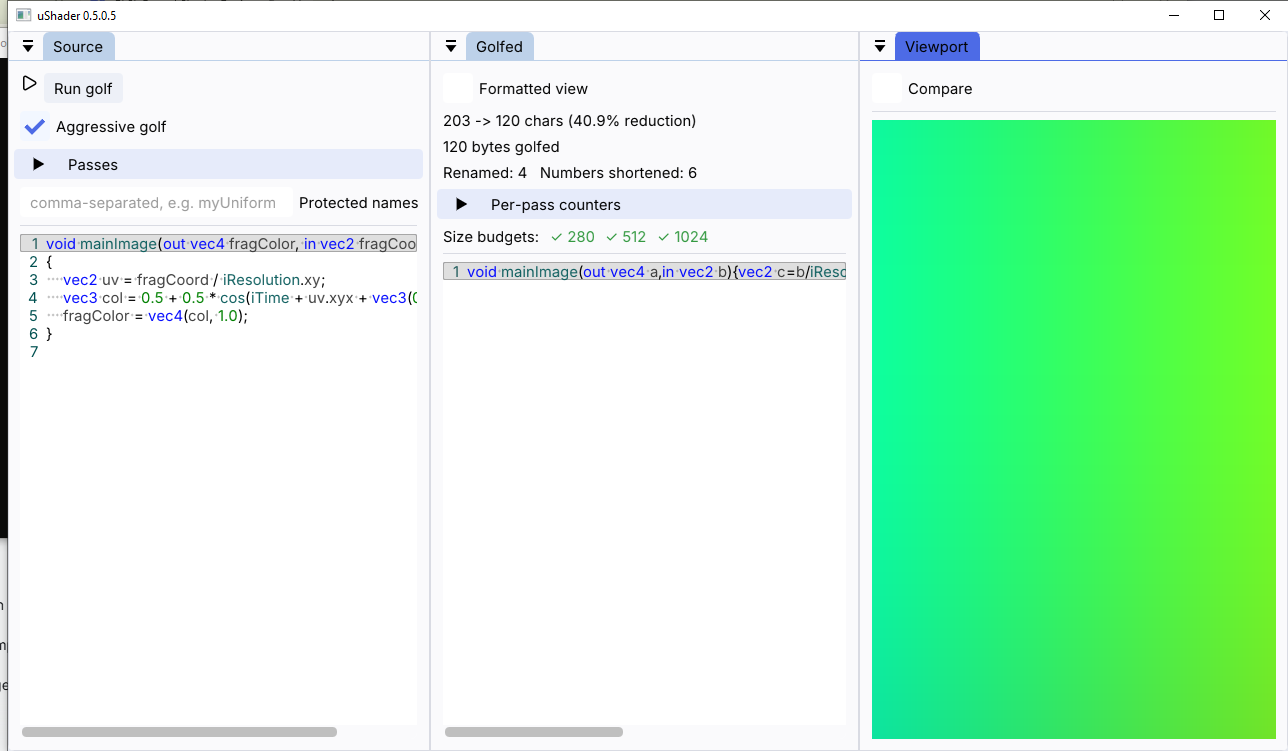
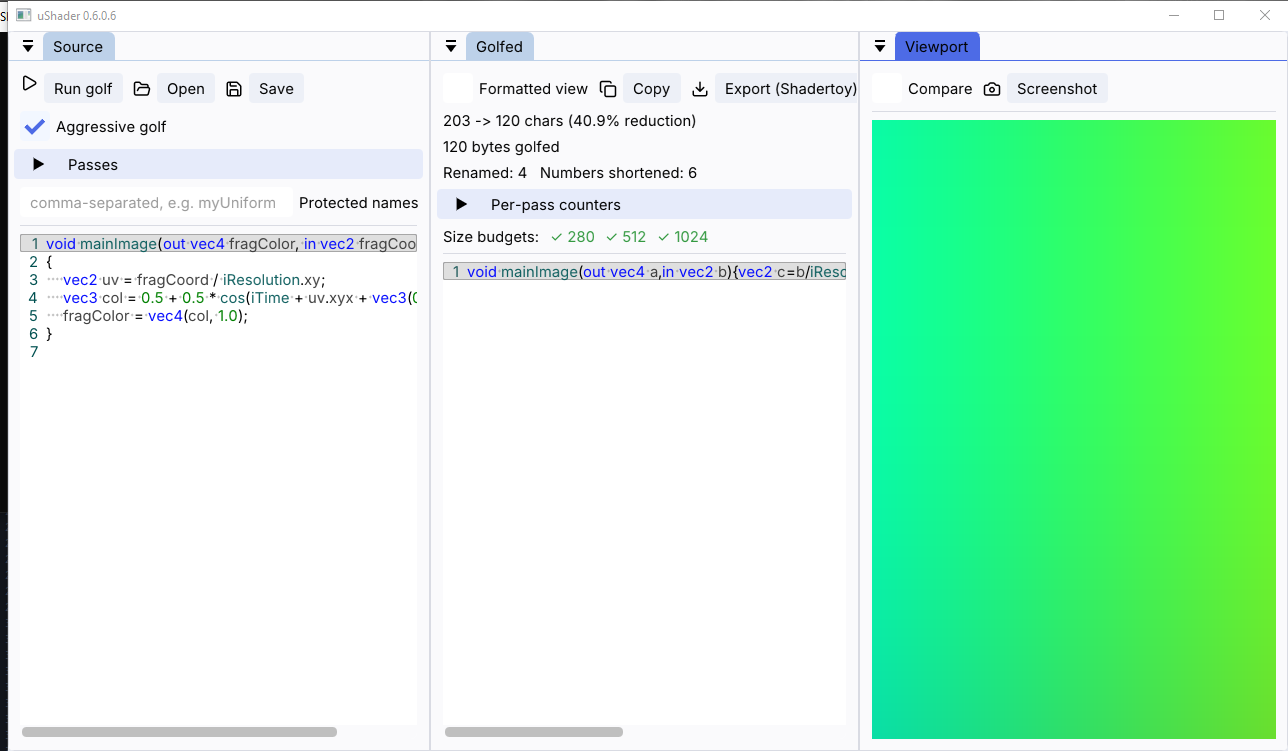
Phase 6: import, export, and capture
Add native Windows file dialogs (src/platform/file_dialog) for
opening and saving .glsl source, a Copy button that puts the golfed
output on the clipboard, a Shadertoy-format export (the golfed
mainImage body needs no extra wrapping to paste there), and a
Screenshot button that captures the golfed viewport's current frame
via glReadPixels and writes it out with stb_image_write.

diff --git a/src/main.cpp b/src/main.cpp
@@ -6,9 +6,14 @@
 
 #include <cstdio>
 #include <ctime>
+#include <fstream>
+#include <optional>
 #include <regex>
+#include <sstream>
 #include <string>
 
+#include "platform/file_dialog.h"
+#include "platform/screenshot.h"
 #include "render/default_shader.h"
 #include "render/framebuffer.h"
 #include "render/gl_functions.h"
@@ -25,6 +30,9 @@
 
 namespace
 {
+    const wchar_t kGlslFilter[] = L"GLSL shaders (*.glsl)\0*.glsl\0All files (*.*)\0*.*\0";
+    const wchar_t kPngFilter[] = L"PNG image (*.png)\0*.png\0";
+
     int parse_error_line_number(const std::string& log)
     {
         static const std::regex nvidia_pattern(R"(0\((\d+)\))");
@@ -48,6 +56,29 @@ namespace
             return "Line " + std::to_string(line) + ": ";
         }
         return std::string();
+    }
+
+    std::string read_text_file(const std::string& path)
+    {
+        std::ifstream file(path, std::ios::binary);
+        if (!file)
+        {
+            return std::string();
+        }
+        std::ostringstream buffer;
+        buffer << file.rdbuf();
+        return buffer.str();
+    }
+
+    bool write_text_file(const std::string& path, const std::string& content)
+    {
+        std::ofstream file(path, std::ios::binary);
+        if (!file)
+        {
+            return false;
+        }
+        file << content;
+        return static_cast<bool>(file);
     }
 }
 
@@ -134,6 +165,15 @@ int main(int argc, char* argv[])
     GolfPassToggles pass_toggles;
     std::string protected_names;
     UshaderGolfStats golf_stats{};
+
+    auto icon_button = [&](const char* icon, const char* label)
+    {
+        ImGui::PushFont(g_icon_font);
+        ImGui::Text("%s", icon);
+        ImGui::PopFont();
+        ImGui::SameLine(0.0f, 6.0f);
+        return ImGui::Button(label);
+    };
 
     auto run_golf_action = [&]()
     {
@@ -251,13 +291,28 @@ int main(int argc, char* argv[])
         ImGui::End();
 
         ImGui::Begin(kSourceWindowTitle);
-        ImGui::PushFont(g_icon_font);
-        ImGui::Text(ICON_PLAY);
-        ImGui::PopFont();
-        ImGui::SameLine(0.0f, 6.0f);
-        if (ImGui::Button("Run golf"))
+        if (icon_button(ICON_PLAY, "Run golf"))
         {
             run_golf_action();
+        }
+        ImGui::SameLine();
+        if (icon_button(ICON_FOLDER_OPEN, "Open"))
+        {
+            std::optional<std::string> path = show_open_file_dialog(window, kGlslFilter, L"glsl");
+            if (path.has_value())
+            {
+                source_editor.SetText(read_text_file(*path));
+                run_golf_action();
+            }
+        }
+        ImGui::SameLine();
+        if (icon_button(ICON_SAVE, "Save"))
+        {
+            std::optional<std::string> path = show_save_file_dialog(window, kGlslFilter, L"glsl", L"shader.glsl");
+            if (path.has_value())
+            {
+                write_text_file(*path, source_editor.GetText());
+            }
         }
         render_golf_controls(pass_toggles, protected_names);
         ImGui::Separator();
@@ -269,6 +324,20 @@ int main(int argc, char* argv[])
         {
             golfed_editor.SetText(formatted_view ? format_glsl(golfed_text) : golfed_text);
         }
+        ImGui::SameLine();
+        if (icon_button(ICON_COPY, "Copy"))
+        {
+            SDL_SetClipboardText(golfed_text.c_str());
+        }
+        ImGui::SameLine();
+        if (icon_button(ICON_DOWNLOAD, "Export (Shadertoy)"))
+        {
+            std::optional<std::string> path = show_save_file_dialog(window, kGlslFilter, L"glsl", L"shader.glsl");
+            if (path.has_value())
+            {
+                write_text_file(*path, golfed_text);
+            }
+        }
         render_stats_panel(golf_stats, golfed_text.size());
         ImGui::Separator();
         golfed_editor.Render("##golfed");
@@ -276,6 +345,15 @@ int main(int argc, char* argv[])
 
         ImGui::Begin(kViewportWindowTitle);
         ImGui::Checkbox("Compare", &compare_mode);
+        ImGui::SameLine();
+        if (icon_button(ICON_CAMERA, "Screenshot"))
+        {
+            std::optional<std::string> path = show_save_file_dialog(window, kPngFilter, L"png", L"screenshot.png");
+            if (path.has_value())
+            {
+                save_framebuffer_png(golfed_viewport_fb, *path);
+            }
+        }
 
         if (!compile_error.empty())
         {

diff --git a/src/platform/file_dialog.cpp b/src/platform/file_dialog.cpp
@@ -1,0 +1,78 @@
+#include "file_dialog.h"
+
+#define WIN32_LEAN_AND_MEAN
+#include <windows.h>
+
+#include <commdlg.h>
+
+#include <SDL3/SDL.h>
+#include <cwchar>
+
+namespace
+{
+    HWND native_window_handle(SDL_Window* window)
+    {
+        if (window == nullptr)
+        {
+            return nullptr;
+        }
+        SDL_PropertiesID props = SDL_GetWindowProperties(window);
+        return static_cast<HWND>(SDL_GetPointerProperty(props, SDL_PROP_WINDOW_WIN32_HWND_POINTER, nullptr));
+    }
+
+    std::string wide_to_utf8(const wchar_t* wide)
+    {
+        int size = WideCharToMultiByte(CP_UTF8, 0, wide, -1, nullptr, 0, nullptr, nullptr);
+        if (size <= 0)
+        {
+            return std::string();
+        }
+        std::string result(static_cast<size_t>(size) - 1, '\0');
+        WideCharToMultiByte(CP_UTF8, 0, wide, -1, result.data(), size, nullptr, nullptr);
+        return result;
+    }
+}
+
+std::optional<std::string> show_open_file_dialog(SDL_Window* window, const wchar_t* filter, const wchar_t* default_ext)
+{
+    wchar_t path_buffer[MAX_PATH] = L"";
+
+    OPENFILENAMEW ofn{};
+    ofn.lStructSize = sizeof(ofn);
+    ofn.hwndOwner = native_window_handle(window);
+    ofn.lpstrFilter = filter;
+    ofn.lpstrFile = path_buffer;
+    ofn.nMaxFile = MAX_PATH;
+    ofn.lpstrDefExt = default_ext;
+    ofn.Flags = OFN_FILEMUSTEXIST | OFN_PATHMUSTEXIST | OFN_NOCHANGEDIR;
+
+    if (!GetOpenFileNameW(&ofn))
+    {
+        return std::nullopt;
+    }
+    return wide_to_utf8(path_buffer);
+}
+
+std::optional<std::string> show_save_file_dialog(SDL_Window* window, const wchar_t* filter, const wchar_t* default_ext, const wchar_t* default_name)
+{
+    wchar_t path_buffer[MAX_PATH] = L"";
+    if (default_name != nullptr)
+    {
+        wcsncpy_s(path_buffer, default_name, MAX_PATH - 1);
+    }
+
+    OPENFILENAMEW ofn{};
+    ofn.lStructSize = sizeof(ofn);
+    ofn.hwndOwner = native_window_handle(window);
+    ofn.lpstrFilter = filter;
+    ofn.lpstrFile = path_buffer;
+    ofn.nMaxFile = MAX_PATH;
+    ofn.lpstrDefExt = default_ext;
+    ofn.Flags = OFN_OVERWRITEPROMPT | OFN_PATHMUSTEXIST | OFN_NOCHANGEDIR;
+
+    if (!GetSaveFileNameW(&ofn))
+    {
+        return std::nullopt;
+    }
+    return wide_to_utf8(path_buffer);
+}

diff --git a/src/platform/screenshot.cpp b/src/platform/screenshot.cpp
@@ -1,0 +1,19 @@
+#include "screenshot.h"
+
+#include <stb_image_write.h>
+#include <vector>
+
+#include "../render/framebuffer.h"
+
+bool save_framebuffer_png(const OffscreenFramebuffer& fb, const std::string& path)
+{
+    std::vector<unsigned char> pixels;
+    if (!fb.read_pixels(pixels))
+    {
+        return false;
+    }
+
+    stbi_flip_vertically_on_write(1);
+    int stride = fb.width() * 4;
+    return stbi_write_png(path.c_str(), fb.width(), fb.height(), 4, pixels.data(), stride) != 0;
+}

diff --git a/src/render/framebuffer.cpp b/src/render/framebuffer.cpp
@@ -54,6 +54,20 @@ void OffscreenFramebuffer::unbind(int window_width, int window_height) const
     glViewport(0, 0, window_width, window_height);
 }
 
+bool OffscreenFramebuffer::read_pixels(std::vector<unsigned char>& out_rgba) const
+{
+    if (fbo == 0 || current_width <= 0 || current_height <= 0)
+    {
+        return false;
+    }
+
+    out_rgba.resize(static_cast<size_t>(current_width) * static_cast<size_t>(current_height) * 4);
+    glBindFramebuffer(GL_FRAMEBUFFER, fbo);
+    glReadPixels(0, 0, current_width, current_height, GL_RGBA, GL_UNSIGNED_BYTE, out_rgba.data());
+    glBindFramebuffer(GL_FRAMEBUFFER, 0);
+    return true;
+}
+
 void OffscreenFramebuffer::destroy()
 {
     if (fbo != 0)

diff --git a/src/platform/file_dialog.h b/src/platform/file_dialog.h
@@ -1,0 +1,9 @@
+#pragma once
+
+#include <optional>
+#include <string>
+
+struct SDL_Window;
+
+std::optional<std::string> show_open_file_dialog(SDL_Window* window, const wchar_t* filter, const wchar_t* default_ext);
+std::optional<std::string> show_save_file_dialog(SDL_Window* window, const wchar_t* filter, const wchar_t* default_ext, const wchar_t* default_name);

diff --git a/src/platform/screenshot.h b/src/platform/screenshot.h
@@ -1,0 +1,7 @@
+#pragma once
+
+#include <string>
+
+class OffscreenFramebuffer;
+
+bool save_framebuffer_png(const OffscreenFramebuffer& fb, const std::string& path);

diff --git a/src/ui/icons.h b/src/ui/icons.h
@@ -7,3 +7,8 @@
 #define ICON_CIRCLE_ALERT "\xee\x81\xb7"
 #define ICON_CODE "\xee\x82\x93"
 #define ICON_IMAGE "\xee\x83\xb6"
+#define ICON_FOLDER_OPEN "\xee\x89\x87"
+#define ICON_SAVE "\xee\x85\x8d"
+#define ICON_COPY "\xee\x82\x9e"
+#define ICON_DOWNLOAD "\xee\x82\xb2"
+#define ICON_CAMERA "\xee\x81\xa4"

diff --git a/src/ui/theme.cpp b/src/ui/theme.cpp
@@ -90,10 +90,15 @@ void load_fonts(ImGuiIO& io, float base_size)
     icon_config.OversampleH = 2;
     icon_config.OversampleV = 2;
     static const ImWchar icon_ranges[] = {
+        0xe064, 0xe064,
         0xe077, 0xe077,
         0xe093, 0xe093,
+        0xe09e, 0xe09e,
+        0xe0b2, 0xe0b2,
         0xe0f6, 0xe0f6,
         0xe13c, 0xe13c,
+        0xe14d, 0xe14d,
+        0xe247, 0xe247,
         0};
     g_icon_font = io.Fonts->AddFontFromFileTTF(icon_path.c_str(), base_size, &icon_config, icon_ranges);
 }

diff --git a/src/render/framebuffer.h b/src/render/framebuffer.h
@@ -1,5 +1,7 @@
 #pragma once
 
+#include <vector>
+
 class OffscreenFramebuffer
 {
 public:
@@ -7,6 +9,7 @@ public:
     void bind() const;
     void unbind(int window_width, int window_height) const;
     void destroy();
+    bool read_pixels(std::vector<unsigned char>& out_rgba) const;
 
     unsigned int texture_id() const { return texture; }
     int width() const { return current_width; }

diff --git a/src/platform/stb_impl.cpp b/src/platform/stb_impl.cpp
@@ -1,0 +1,2 @@
+#define STB_IMAGE_WRITE_IMPLEMENTATION
+#include <stb_image_write.h>

diff --git a/CHANGELOG.md b/CHANGELOG.md
@@ -2,6 +2,22 @@
 
 All notable changes to µShader are documented in this file.
 
+## [0.7.0] - Unreleased
+
+### Added
+
+- Open/Save buttons in the Source panel using native Windows file
+  dialogs, for loading and saving `.glsl` shader source.
+- Copy button in the Golfed panel: copies the golfed output (always
+  the raw minified text, regardless of "Formatted view") to the
+  clipboard.
+- Export (Shadertoy) button: saves the golfed output to a `.glsl`
+  file — Shadertoy's format is just the `mainImage` function body, so
+  no extra wrapping is needed.
+- Screenshot button in the Viewport panel: captures the golfed
+  shader's current frame via `glReadPixels` and writes it to a PNG
+  file with `stb_image_write`.
+
 ## [0.6.0] - Unreleased
 
 ### Added

diff --git a/README.md b/README.md
@@ -10,10 +10,11 @@ viewport.
 
 ![uShader screenshot: Source, Golfed, and Viewport panels](docs/screenshot.png)
 
-**Status: early development (Phase 5 — golfing controls & stats).
-Aggressive-pass toggles, protected names, reduction stats, and
-Compare mode are all in place; file import/export is not implemented
-yet.** See `ROADMAP.md` for the full phase-by-phase plan.
+**Status: early development (Phase 6 — import/export/capture). Open
+and save `.glsl` files, copy the golfed output, export it in
+Shadertoy format, and capture the viewport to PNG — branding and
+packaging are not implemented yet.** See `ROADMAP.md` for the full
+phase-by-phase plan.
 
 ## Building
 